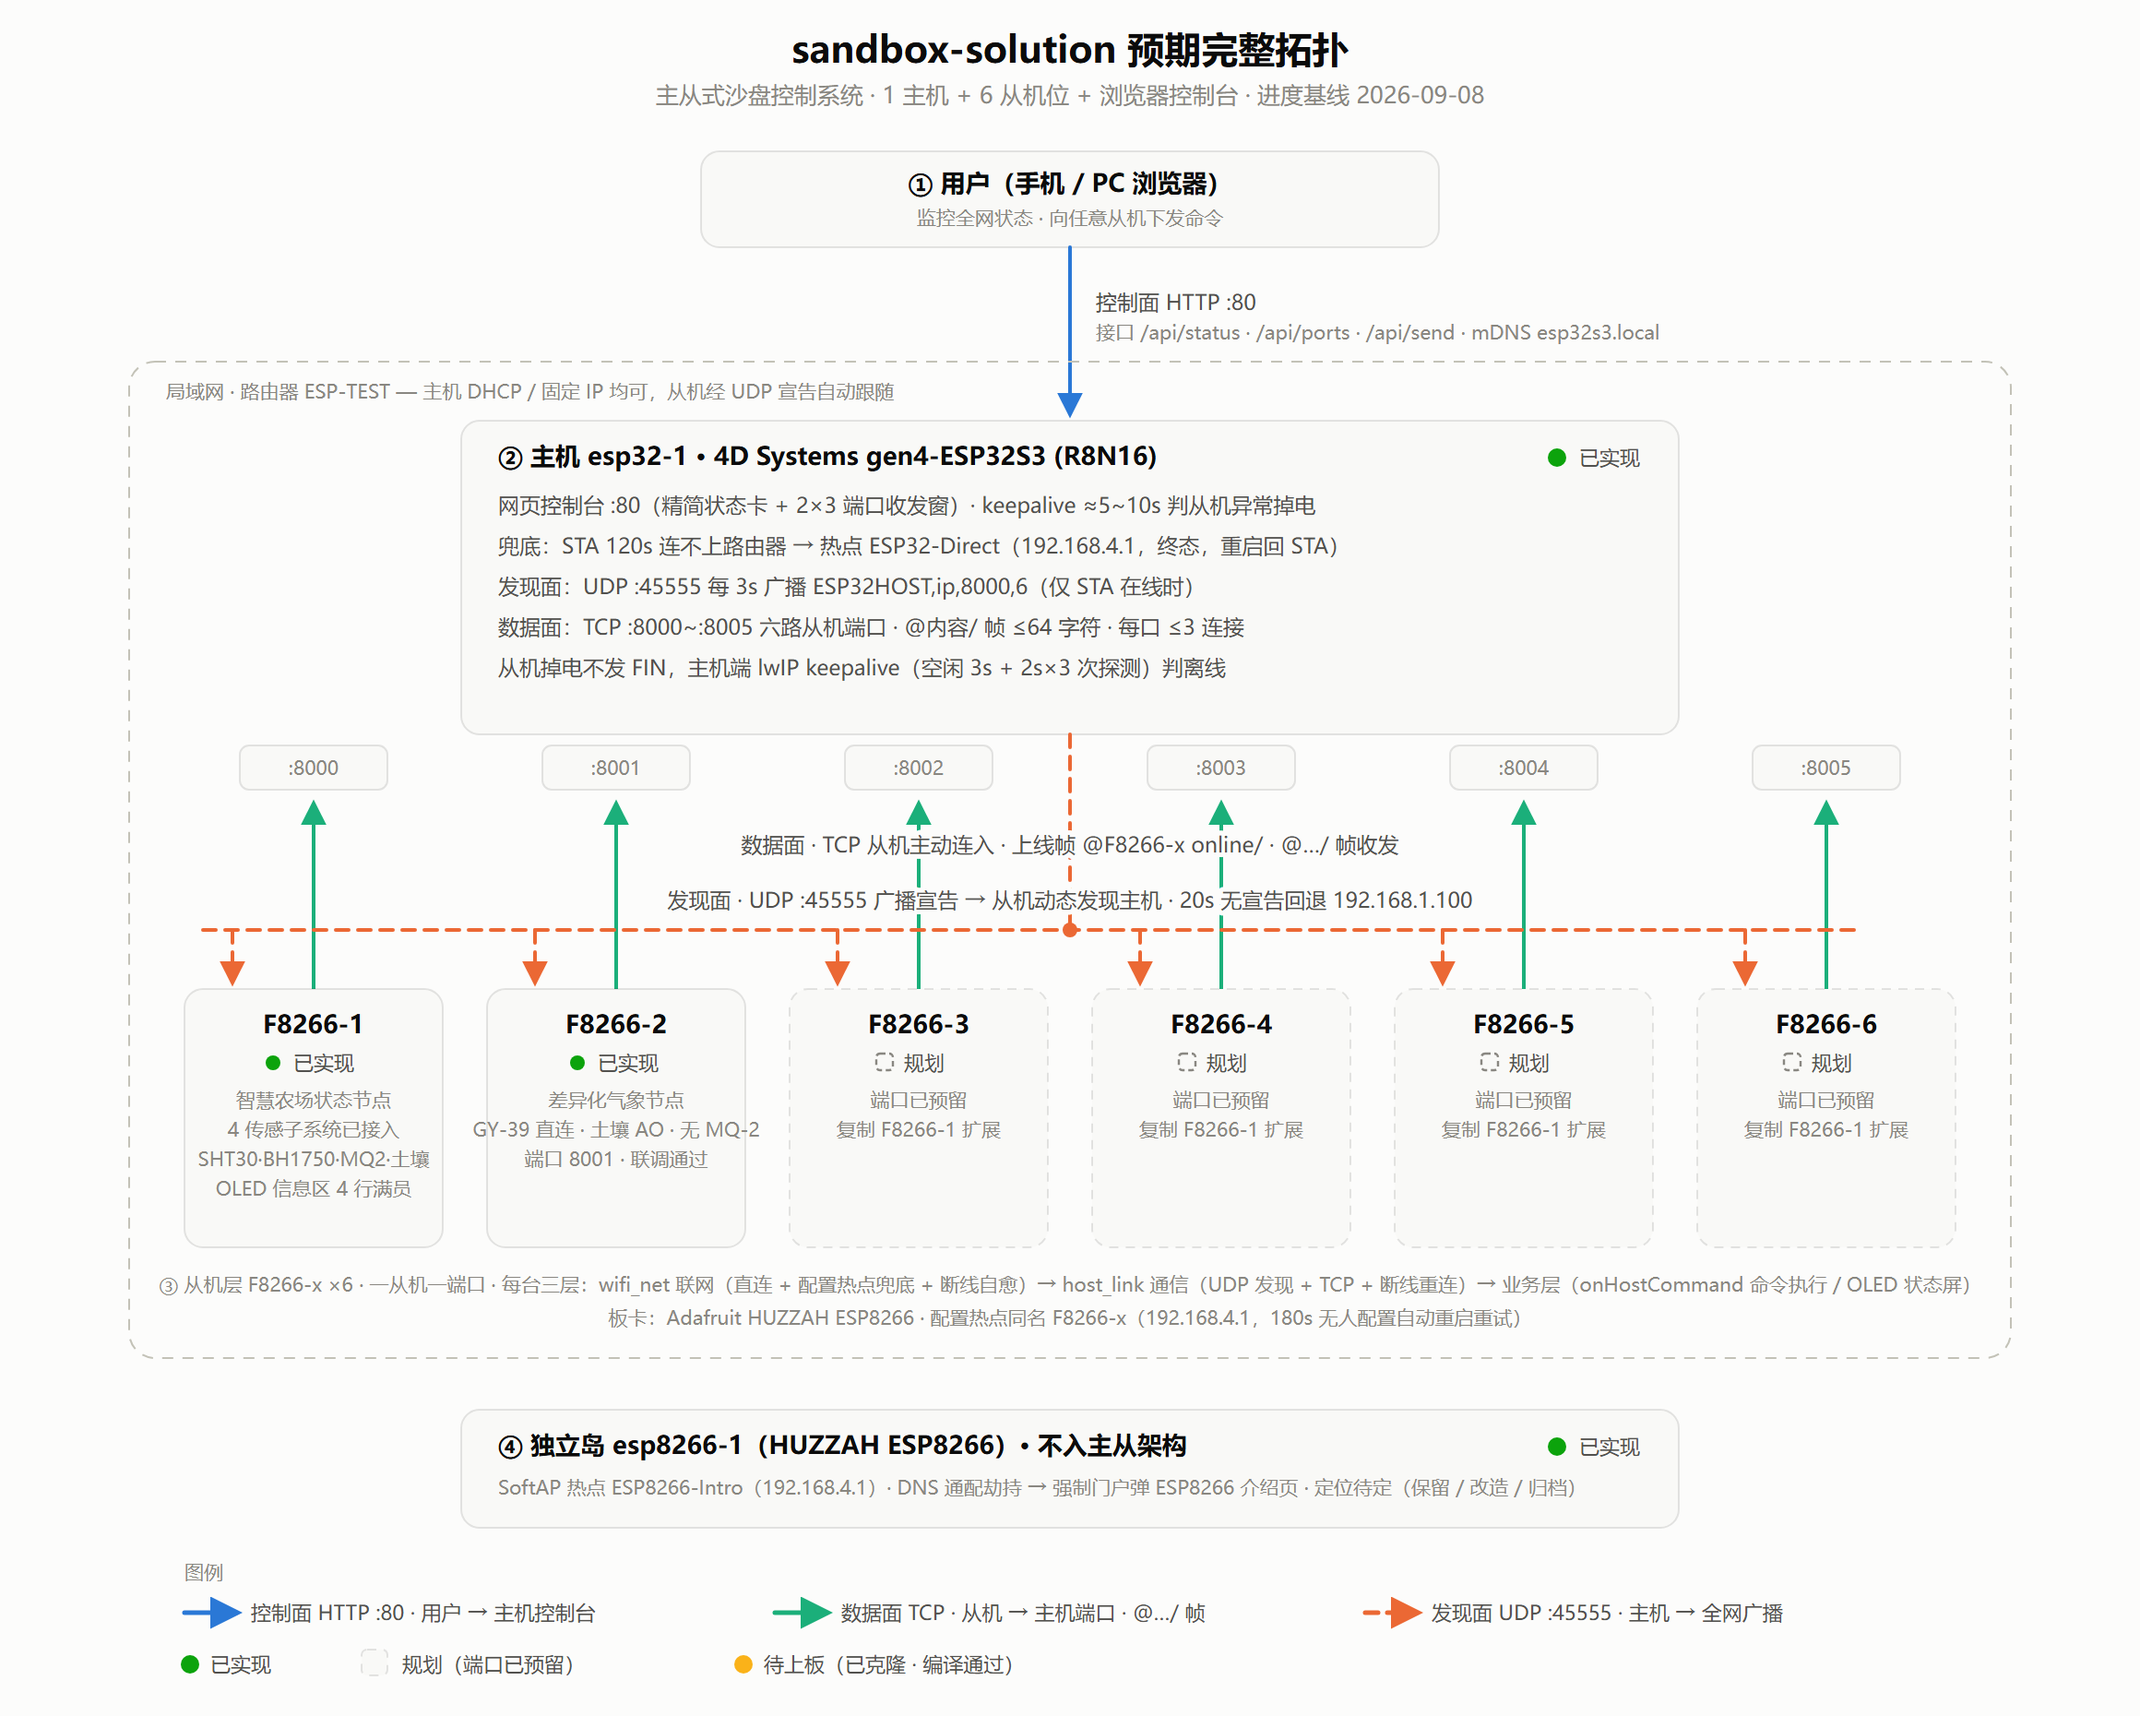
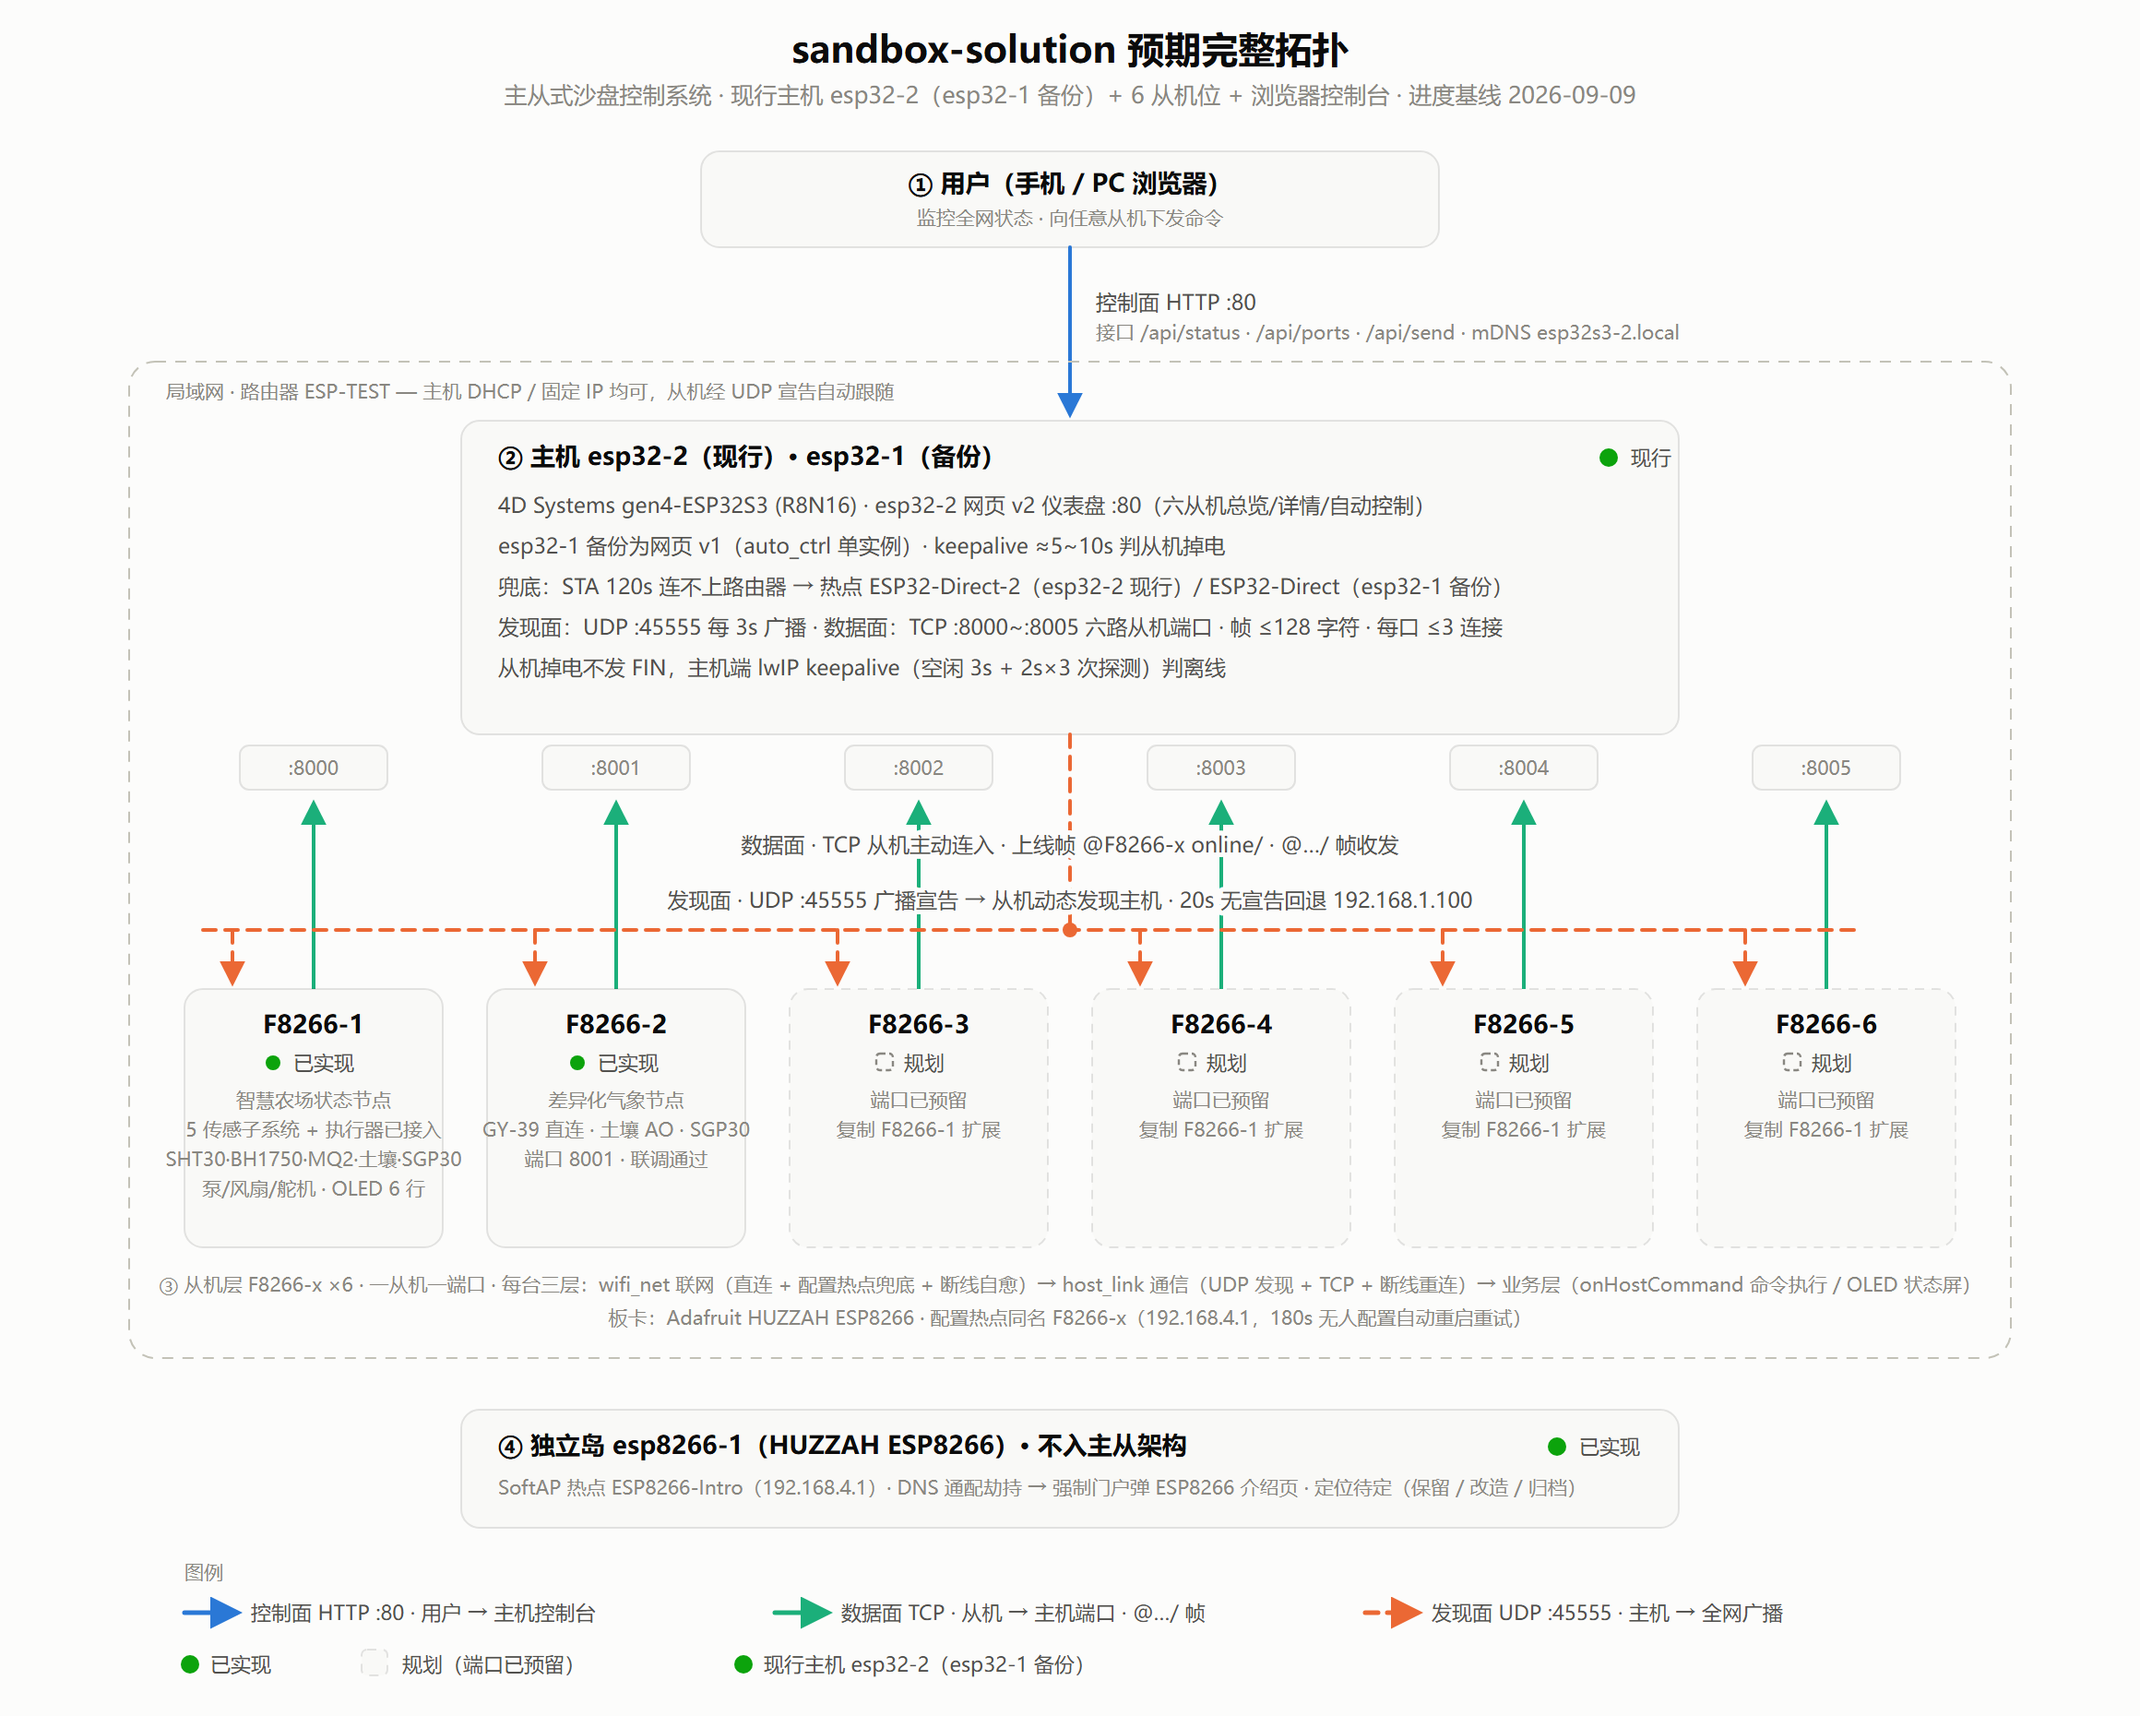
文档主线更新：现行主机明确为 esp32-2（esp32-1 降为旧版备份）——根 README 索引/ARCHITECTURE §1·§3·§5·§6·§9/拓扑图同步；F8266-1 卡片同步至 5 传感+执行器、F8266-2 卡补 SGP30；esp32-2 主机卡带现行/备份双身份、帧长 64→128 纠误；拓扑位图重渲染

diff --git a/ARCHITECTURE.md b/ARCHITECTURE.md
@@ -4,7 +4,7 @@
 
 ## 1. 最终形态
 
-主从式沙盘控制系统：**1 台 ESP32-S3 主机**（[esp32-1](esp32-1/)）作为控制台与通信枢纽，以「UDP 广播发现 + 6 路 TCP 数据端口」接入**至多 6 台 ESP8266 从机**（`F8266-x`，一台从机对应沙盘一个子系统，首台为智慧农场）；用户用任意浏览器访问主机网页即可监控全网状态、向任意从机下发命令。[esp8266-1](esp8266-1/) 为架构外独立演示节点，不参与主从通信。
+主从式沙盘控制系统：**1 台 ESP32-S3 主机**作为控制台与通信枢纽，以「UDP 广播发现 + 6 路 TCP 数据端口」接入**至多 6 台 ESP8266 从机**（`F8266-x`，一台从机对应沙盘一个子系统，首台为智慧农场）；用户用任意浏览器访问主机网页即可监控全网状态、向任意从机下发命令。主机固件有先后两版：**现行部署为 [esp32-2](esp32-2/)（网页 v2 仪表盘 + 每端口独立 auto_ctrl）**，[esp32-1](esp32-1/) 为其前身、**保留作旧版备份**（网页 v1 + auto_ctrl 单实例，能力一致）。[esp8266-1](esp8266-1/) 为架构外独立演示节点，不参与主从通信。
 
 通信骨架（发现面 + 数据面 + 双向自愈）与首个从机的业务闭环（传感 + 执行 + 命令词表 + 阈值自动控制）已全部实现并通过主从联调；第二台从机 F8266-2 已完成差异化改造并**上板联调通过**（无 MQ-2、GY-39 直连二合一、土壤改 AO 模拟量）；剩余工作集中在**从机扩展**（F8266-3~6 待建）与各从机现场标定，详见 §9。
 
@@ -19,7 +19,7 @@
 | 层级      | 节点                         | 职责                                                             | 现状                      |
 | --------- | ---------------------------- | ---------------------------------------------------------------- | ------------------------- |
 | ① 用户层 | 手机 / PC 浏览器             | 访问主机控制台，查看全网状态、向从机下发命令                     | ✅                        |
-| ② 主机   | esp32-1（ESP32-S3）          | 控制台网页、UDP 广播宣告、6 路 TCP 从机端口、上下线/掉电管理、阈值自动控制（auto_ctrl） | ✅                        |
+| ② 主机   | esp32-2（ESP32-S3，**现行**）· esp32-1（备份） | 控制台网页、UDP 广播宣告、6 路 TCP 从机端口、上下线/掉电管理、阈值自动控制（auto_ctrl；esp32-2 为每端口独立实例） | ✅                        |
 | ③ 从机层 | F8266-1 ~ F8266-6（ESP8266） | 一台对应沙盘一个子系统：联网 + 主机链路 + 业务（传感/执行/显示） | ✅ F8266-1 已上线（传感①~⑤ + 执行实体 + 主机闭环控制）；✅ F8266-2 已上线（差异化：GY-39 直连二合一 + 土壤 AO + SGP30 + 执行实体，2026-09-09 联调通过） |
 | ④ 独立岛 | esp8266-1（ESP8266）         | SoftAP 强制门户演示（ESP8266 介绍页），与主从架构无关            | ✅（定位待定）            |
 
@@ -56,12 +56,12 @@
 
 | 端口 / 地址                     | 用途                                        | 占用者                                    | 状态    |
 | ------------------------------- | ------------------------------------------- | ----------------------------------------- | ------- |
-| UDP :45555                      | 发现面广播（主机 → 全网）                  | esp32-1                                   | ✅      |
+| UDP :45555                      | 发现面广播（主机 → 全网）                  | esp32-2（现行）/ esp32-1（备份）          | ✅      |
 | TCP :8000                       | 数据面：从机 1                              | F8266-1（智慧农场：5 传感子系统 + 执行实体已接入） | ✅      |
 | TCP :8001                       | 数据面：从机 2                              | F8266-2（差异化气象节点：GY-39 直连二合一 + 土壤 AO→A0 + SGP30 + 执行器，上报 soil 0/1 不变、新增 press） | ✅ 联调通过 |
 | TCP :8002 ~ :8005               | 数据面：从机 3~6                            | F8266-3 ~ F8266-6（各对应一个沙盘子系统） | ⬜ 预留 |
-| TCP :80 / mDNS`esp32s3.local` | 控制面：用户浏览器                          | esp32-1                                   | ✅      |
-| （回退）`192.168.1.100`       | 从机侧硬编码主机地址，仅宣告缺席 20s 后兜底 | esp32-1                                   | ✅      |
+| TCP :80 / mDNS `esp32s3-2.local` | 控制面：用户浏览器（esp32-2 现行；esp32-1 备份为 `esp32s3.local`） | esp32-2（现行）/ esp32-1（备份） | ✅      |
+| （回退）`192.168.1.100`       | 从机侧硬编码主机地址，仅宣告缺席 20s 后兜底 | esp32-2（现行）/ esp32-1（备份）         | ✅      |
 
 > 命名体系：从机身份 = STA 主机名 = 配置热点名 = 项目目录名（如 `F8266-2`），全网唯一。
 
@@ -69,7 +69,7 @@
 
 | 场景                     | 机制                                                                                                | 关键参数                                       |
 | ------------------------ | --------------------------------------------------------------------------------------------------- | ---------------------------------------------- |
-| 主机连不上路由器         | 120s 超时切 AP 热点`ESP32-Direct`（192.168.4.1），手机直连仍可访问控制台；AP 为终态，重启才回 STA | `STA_TIMEOUT_MS`                             |
+| 主机连不上路由器         | 120s 超时切 AP 热点（esp32-2 现行：`ESP32-Direct-2`；esp32-1 备份：`ESP32-Direct`；均 192.168.4.1），手机直连仍可访问控制台；AP 为终态，重启才回 STA | `STA_TIMEOUT_MS`                             |
 | 从机默认网络不可达       | 自动开同名配置热点`F8266-x`（WiFiManager，192.168.4.1）改配；180s 无人配置自动重启重试            | `NET_PORTAL_TIMEOUT_S`                       |
 | 从机运行期断网           | 失联超 15s（SDK 自动重连未恢复）自动重连默认网络 / 重开配置热点；期间主机链路暂停，恢复后重连       | wifi_net 自愈                                  |
 | 主机 IP 变化 / 重启换 IP | 从机收 UDP 宣告自动切换目标地址（旧连接断开重连）                                                   | 宣告周期 3s                                    |
@@ -117,11 +117,11 @@ F8266-x/src/
 | `SERVO <0~180>` | 舵机转到指定角度         | `act.servoSet(deg)`         |
 
 - 上行：从机 `link.send()` 上报传感数据 + **执行器实时状态**（JSON，见 §4.2），主机网页执行器卡据此实时回显；无独立回包；
-- **阈值自动控制（主机侧 `auto_ctrl`，已实现）**：从机本地不做自动逻辑，统一由主机判定——高温(≥`AC_T_HIGH`)/高CO₂(≥`AC_CO2_HIGH`)→下发 `FAN FWD`，土壤干(`soil==0`)/低湿(`h<AC_H_LOW`)→下发 `PUMP ON`，回到安全区（带滞回）→`FAN STOP`/`PUMP OFF`；每条规则连续越界/回安全区 `AC_CONFIRM_N` 次才翻转（防抖）；总开关 + 3 阈值经网页 `/api/auto` 可改并持久化 NVS（详见 esp32-1 的 auto_ctrl 模块）。
+- **阈值自动控制（主机侧 `auto_ctrl`，已实现）**：从机本地不做自动逻辑，统一由主机判定——高温(≥`AC_T_HIGH`)/高CO₂(≥`AC_CO2_HIGH`)→下发 `FAN FWD`，土壤干(`soil==0`)/低湿(`h<AC_H_LOW`)→下发 `PUMP ON`，回到安全区（带滞回）→`FAN STOP`/`PUMP OFF`；每条规则连续越界/回安全区 `AC_CONFIRM_N` 次才翻转（防抖）；总开关 + 3 阈值经网页 `/api/auto` 可改并持久化 NVS（详见 esp32-2 现行（esp32-1 备份同构）的 auto_ctrl 模块）。
 
 ### 8.3 主机侧扩展
 
-按 esp32-1 现有模式：新接口在 `web_ui.cpp` 注册路由；新逻辑模块建 `xxx.h/.cpp` 暴露 `begin()/loop()`；参数集中 `config.h`。
+按 esp32-2（现行）模式（esp32-1 备份同构）：新接口在 `web_ui.cpp` 注册路由；新逻辑模块建 `xxx.h/.cpp` 暴露 `begin()/loop()`；参数集中 `config.h`。
 
 ## 9. 当前进度 vs 完整拓扑
 
@@ -130,7 +130,8 @@ F8266-x/src/
 | 主机 6 路 TCP 端口 +`@…/` 帧协议 + 上线识别     | ✅                                          |
 | 主机 UDP 广播宣告 + 从机动态发现（主机可 DHCP）    | ✅                                          |
 | 主机 TCP keepalive 掉电感知                        | ✅                                          |
-| 主机网页控制台（状态卡 + 端口收发窗 + API）        | ✅                                          |
+| 主机网页控制台（状态卡 + 端口收发窗 + API）        | ✅ esp32-1（备份）；现行 esp32-2 升级为网页 v2 仪表盘 |
+| 现行主机 esp32-2（每端口独立 auto_ctrl + 网页 v2） | ✅ 现行部署；esp32-1 降为旧版备份             |
 | 从机 F8266-1：联网（直连/配置热点/自愈）+ 主机链路 | ✅                                          |
 | F8266-1 业务层第一步：OLED 状态屏                  | ✅                                          |
 | 子系统① SHT30 温湿度采集 + 读数/故障上屏（OLED 信息行） | ✅ 第一个传感实体已接入                  |
@@ -178,3 +179,4 @@ F8266-x/src/
 | 2026-09-09 | F8266-2 GY-39 增补**直连芯片模式**（现场实测：模块板边 SDA/SCL 焊盘直连芯片绕过 MCU，总线扫描 0x4A+0x76 应答）：BME280@0x76/0x77（Adafruit 库）+ MAX44009@0x4A（直读寄存器）上共享 I2C 总线；至此直连/UART/I2C-MCU 三模式自适应，接线热切换自愈；§7 同步；编译通过（RAM 37.7%/Flash 37.7%） |
 | 2026-09-09 | F8266-2 GY-39 收敛为**直连芯片单一路径**（删除 UART / I2C-MCU 备选路径）；光照加 ×100 现场标定倍率（原始字节实测该模块 MAX44009 读数恒偏低约百倍，固定倍率偏差）；§7 同步；编译通过（RAM 37.4%/Flash 37.0%） |
 | 2026-09-09 | F8266-2 **上板联调通过**：§1/§3/§5/§9 状态与拓扑图卡片（待上板→已实现）同步为已上线；遗留现场标定项（GY-39 光照 ×100 倍率、土壤 AO 湿干阈值）已在 §9 注明 |
+| 2026-09-09 | **现行主机改为 esp32-2**：§1 最终形态、§3 层级职责、§5 端口/身份/回退、§6 兜底热点名、§9 进度表同步——esp32-2（网页 v2 + 每端口独立 auto_ctrl）为现行部署，esp32-1 降为旧版备份；mDNS 现行 `esp32s3-2.local` / 热点 `ESP32-Direct-2` |
